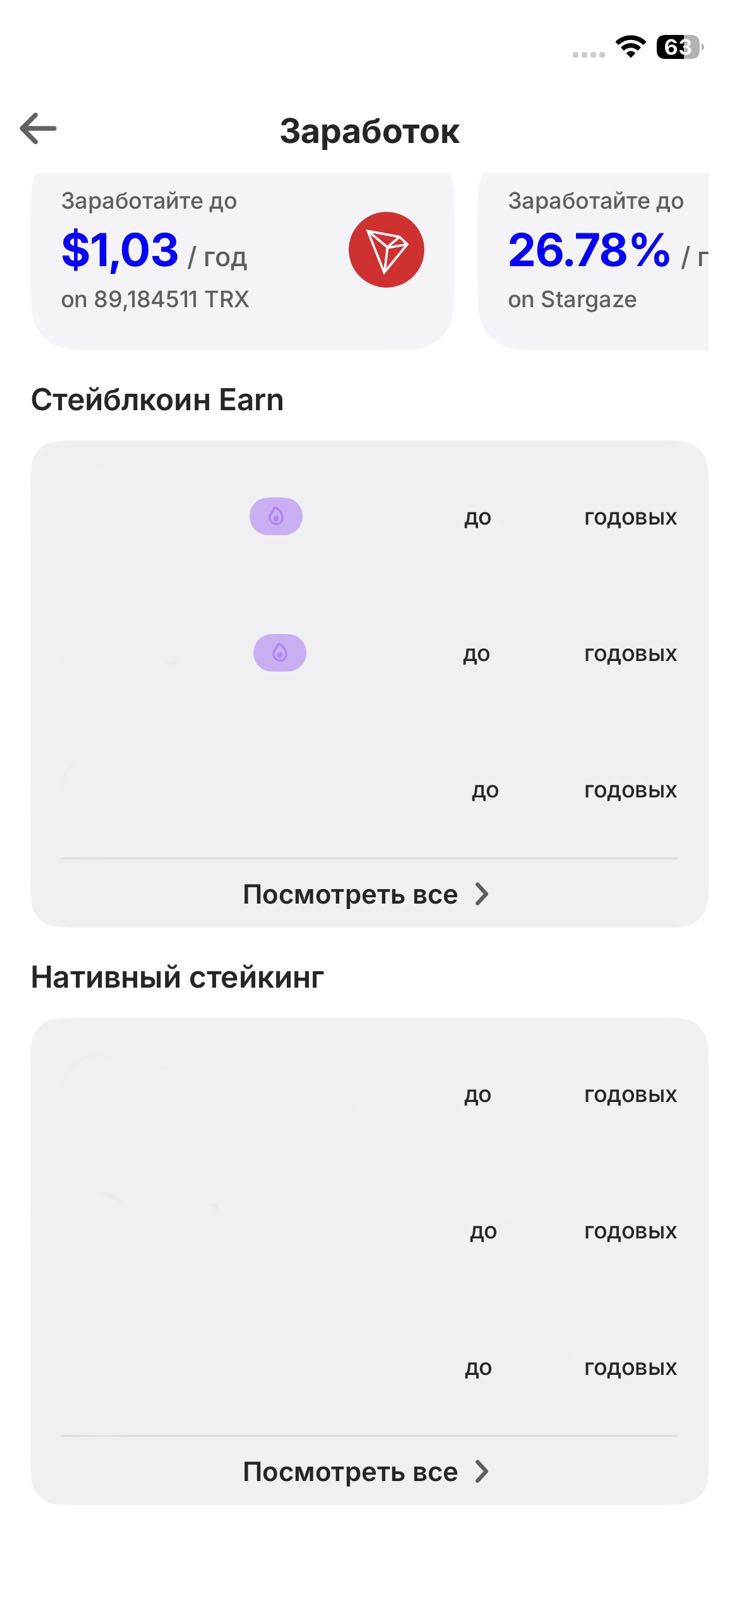
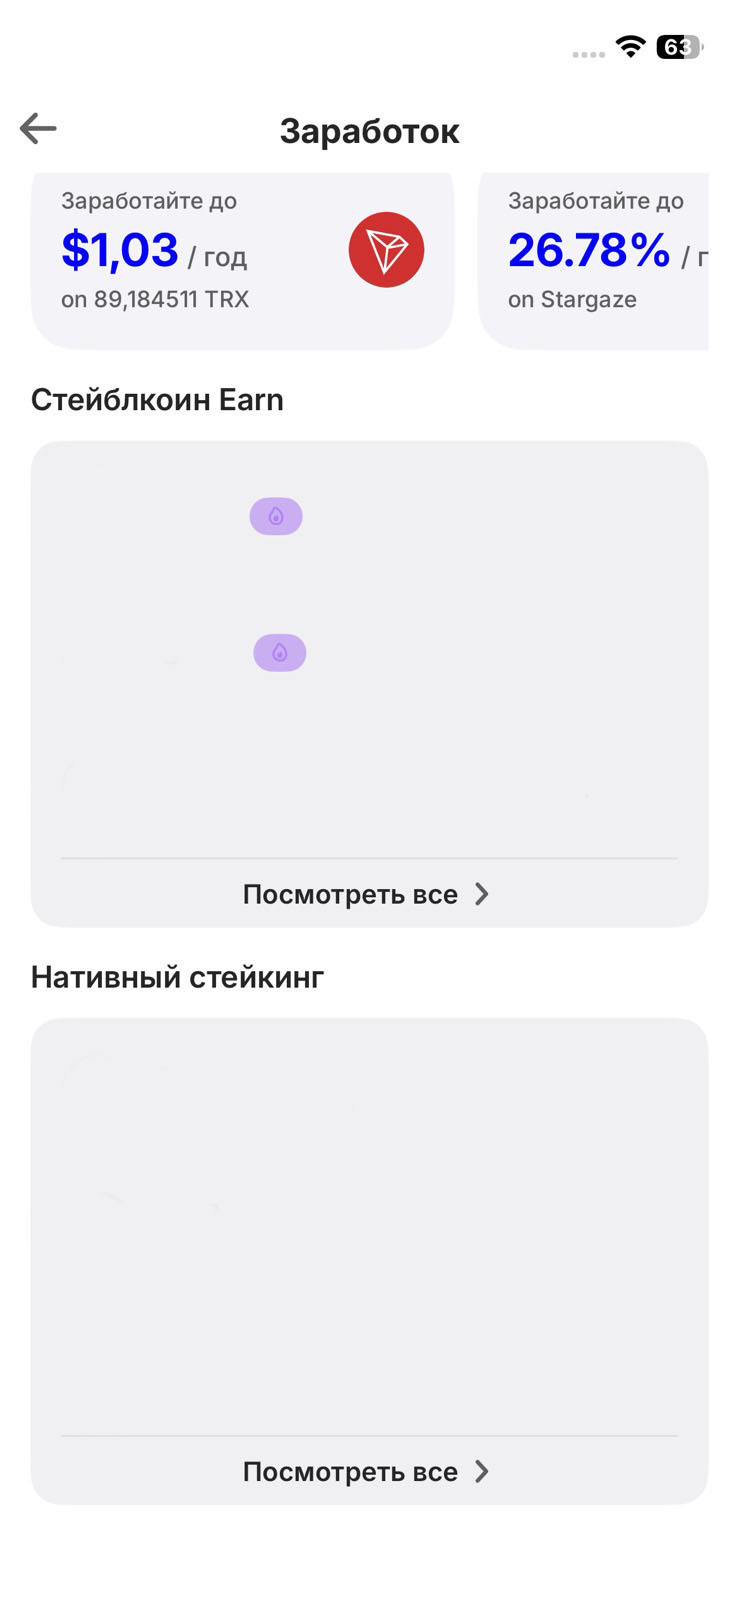
fix template screen for earn trust, add drawing two fields - do and godovyh

diff --git a/earn_handler.py b/earn_handler.py
@@ -42,6 +42,9 @@ NATIVE_ICON_TOP = [1057, 1194, 1330]
 # X тикера
 TICKER_X = 160
 
+DO_X      = 440   # подбери по шаблону
+PERCENT_X = 480   # подбери по шаблону
+
 # =============================
 #        ЦВЕТА
 # =============================
@@ -109,9 +112,15 @@ def draw_coin_row(draw, image, icon_top, sym, network, percent_str, font_ticker,
         if change_str:
             draw.text((TICKER_X + price_w + 8, price_y), change_str, font=font_price, fill=change_color, anchor="lt")
 
-    # Процент
-    draw.text((ICON_X + ICON_SIZE + percent_offset, percent_y), percent_str + "%",
-              font=font_percent, fill=percent_color, anchor="lt")
+    # "до"
+    draw.text((DO_X, percent_y + 8), "до", font=font_text, fill="#444444", anchor="lt")
+
+    # процент
+    draw.text((PERCENT_X, percent_y), percent_str + "%", font=font_percent, fill=percent_color, anchor="lt")
+
+    # "годовых" — после процента динамически
+    percent_w = draw.textlength(percent_str + "%", font=font_percent)
+    draw.text((PERCENT_X + percent_w + 8, percent_y + 8), "годовых", font=font_text, fill="#444444", anchor="lt")
 
 
 def generate_earn_card(
@@ -125,7 +134,7 @@ def generate_earn_card(
     # Шрифты
     font_time      = ImageFont.truetype(FONT_SF_SEMI,    30)
     font_ticker    = ImageFont.truetype(FONT_SF_SEMI,    31)
-    font_text      = ImageFont.truetype(FONT_SF_REGULAR, 28)
+    font_text      = ImageFont.truetype(FONT_SF_SEMI,    24)
     font_percent   = ImageFont.truetype(FONT_SF_BOLD,    31)
     font_percent_n = ImageFont.truetype(FONT_SF_SEMI,    31)
     font_price     = ImageFont.truetype(FONT_SF_BOLD, 23)
